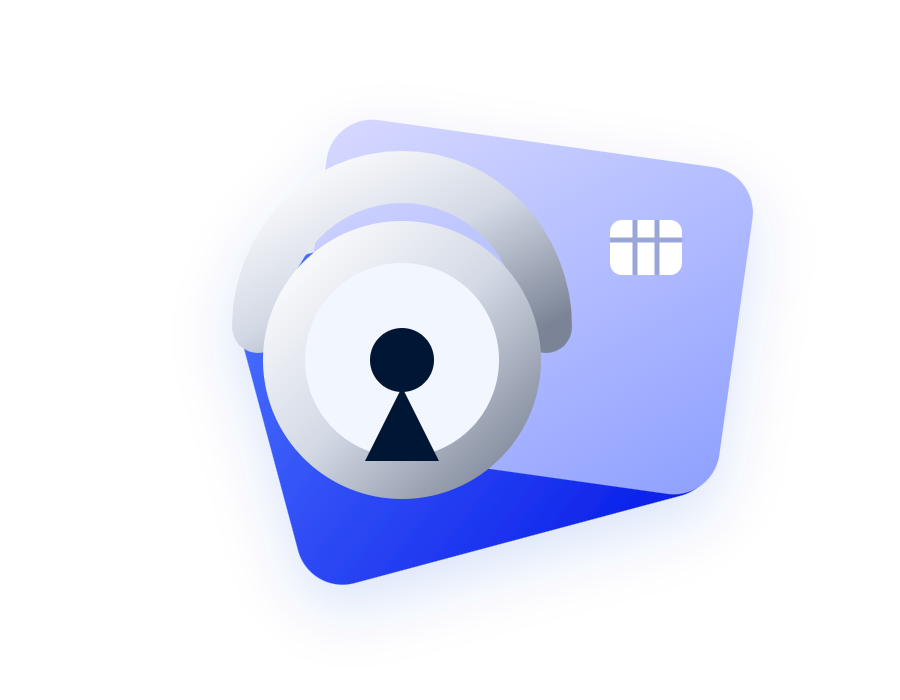
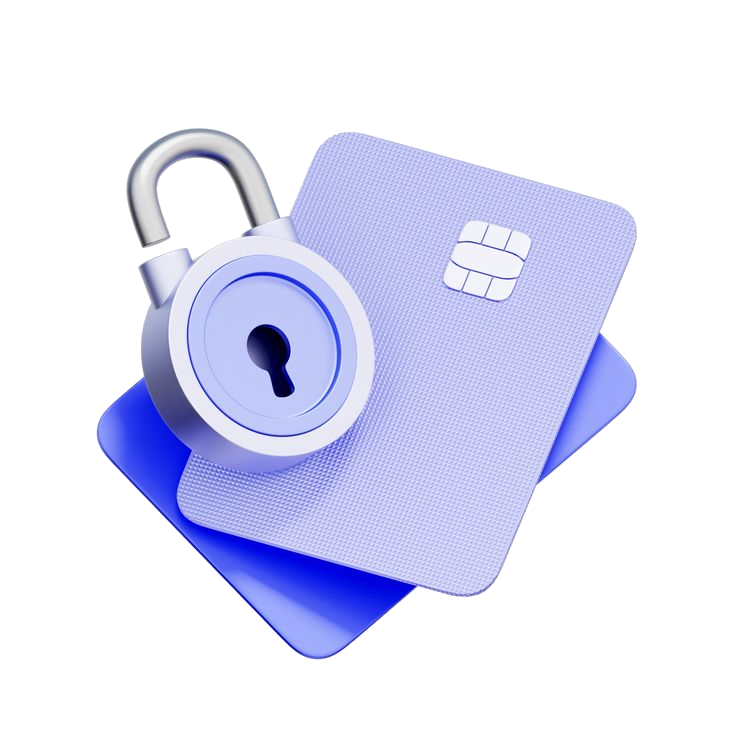
Remove backgrounds from 3D image assets

diff --git a/public/index.html b/public/index.html
@@ -93,9 +93,9 @@
         <div class="hero-visual" aria-hidden="true">
           <img
             class="hero-asset asset-float"
-            src="/assets/hero-lock.jpg"
+            src="/assets/hero-lock.png"
             alt=""
-            onerror="this.onerror=null;this.src='/assets/hero-lock.png';"
+            onerror="this.onerror=null;this.src='/assets/hero-lock.jpg';"
           />
         </div>
       </section>
@@ -213,9 +213,9 @@
           <div class="section-visual seo-picture reveal" aria-hidden="true">
             <img
               class="asset-float"
-              src="/assets/seo-analytics.jpg"
+              src="/assets/seo-analytics.png"
               alt=""
-              onerror="this.onerror=null;this.src='/assets/seo-analytics.png';"
+              onerror="this.onerror=null;this.src='/assets/seo-analytics.jpg';"
             />
           </div>
           <div class="seo-stats-grid">
@@ -348,9 +348,9 @@
           <aside class="unlock-card reveal">
             <img
               class="unlock-visual asset-float"
-              src="/assets/security-card.jpg"
+              src="/assets/security-card.png"
               alt=""
-              onerror="this.onerror=null;this.src='/assets/security-card.png';"
+              onerror="this.onerror=null;this.src='/assets/security-card.jpg';"
             />
             <span class="neutral-pill">Полный доступ</span>
             <h3>Последние 10 пунктов закрыты</h3>
